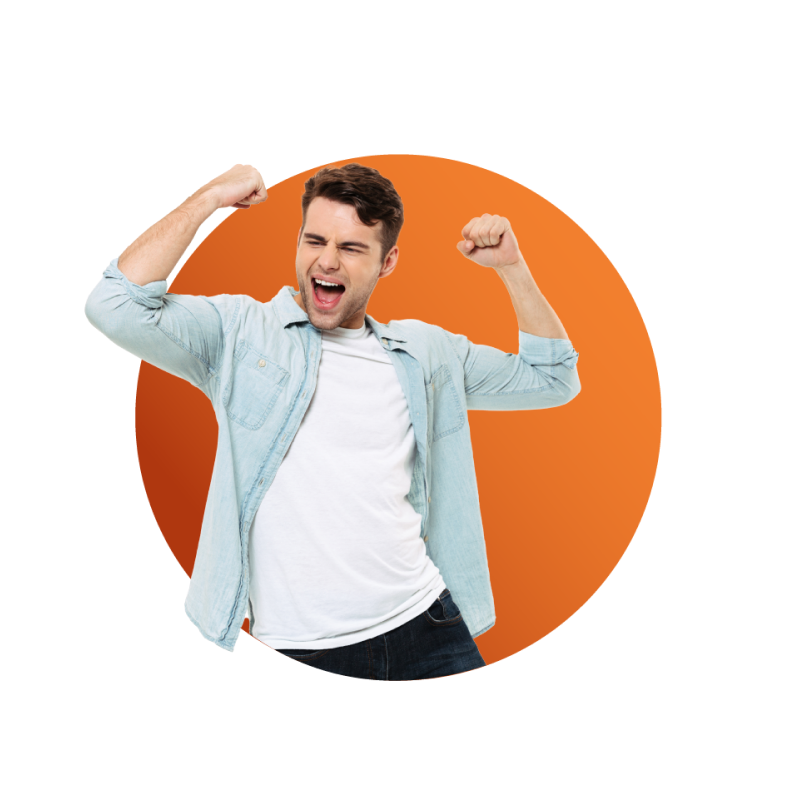
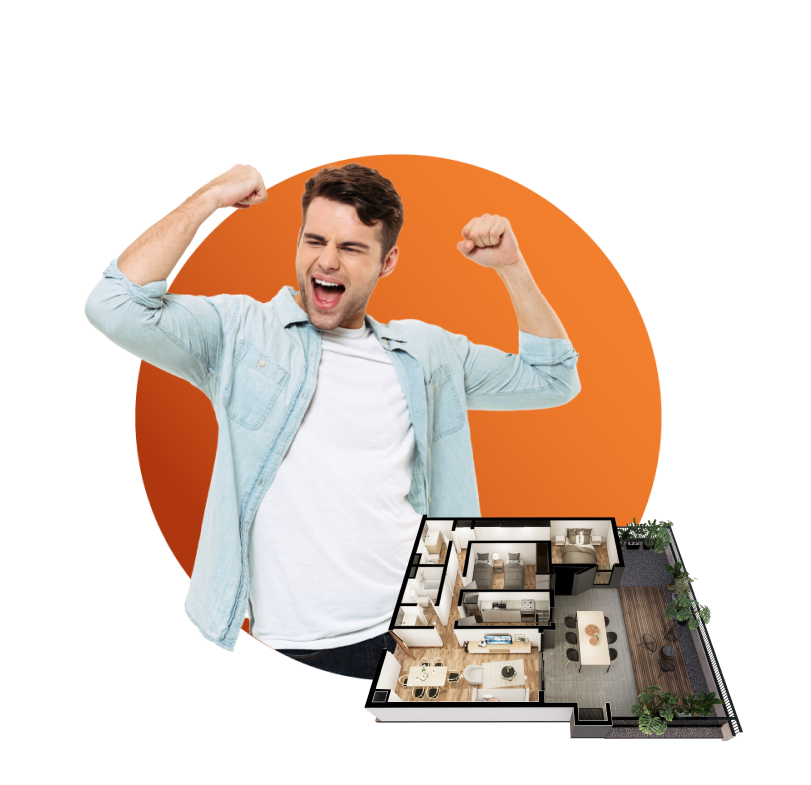
proposal-section

Changed region(s): [[0.4316, 0.642, 0.9248, 0.9478]]

diff --git a/components/ProposalSection/index.js b/components/ProposalSection/index.js
@@ -1,0 +1,48 @@
+import Image from "next/image"
+import menIMG from "../../public/men-celebrating.png"
+import womenIMG from "../../public/happy-women.png"
+import styles from "./ProposalSection.module.css"
+
+const ProposalSection = () => {
+  return (
+    <section className={styles["proposal-section"]}>
+      <div className={`${styles["img-men"]} ${styles["img-wrapper"]}`}>
+        <Image src={menIMG} alt="Nuestro legado" layout="fill" />
+      </div>
+      <div className={styles["men-text-wrapper"]}>
+        <h2 className={styles["proposal-section-title"]}>
+          Tus ahorros en m² se valorizan mejor
+        </h2>
+        <h3 className={styles["proposal-section-subtitle"]}>
+          CUMPLÍ EL SUEÑO DE <br /> TU CASA PROPIA
+        </h3>
+        <p className={styles["proposal-section-text"]}>
+          Somos un nuevo crowdfunding que te permite participar en el mercado
+          inmobiliario con pequeños montos para que puedas ir metro a metro
+          creciendo y proyectando el sueño de tu casa propia.
+        </p>
+      </div>
+      <div
+        style={{
+          display: "flex",
+          justifyContent: "space-between",
+        }}
+      >
+        <div className={styles["women-text-wrapper"]}>
+          <h3 className={styles["proposal-section-subtitle"]}>
+            POTENCIÁ TUS AHORROS INVIRTIENDO <br /> EN DESARROLLOS INMOBILIARIOS
+          </h3>
+          <p className={styles["proposal-section-text"]}>
+            En Metro a Metro te invitamos a ser parte del negocio inmobiliario
+            ingresando con un monto minimo que te permite comprar un metro
+            cuadrado cada vez que quieras, resguardando tus ahorros en ladrillo.
+          </p>
+        </div>
+        <div className={`${styles["img-wrapper"]} ${styles["img-women"]}`}>
+          <Image src={womenIMG} alt="Nuestro legado" objectFit="contain" />
+        </div>
+      </div>
+    </section>
+  )
+}
+export default ProposalSection

diff --git a/components/ProposalSection/ProposalSection.module.css b/components/ProposalSection/ProposalSection.module.css
@@ -1,0 +1,57 @@
+.proposal-section {
+  background-color: white;
+  position: relative;
+}
+
+.proposal-section-title {
+  font-weight: 700;
+  font-size: 30px;
+  line-height: 32px;
+  letter-spacing: 0.2px;
+  color: #000000;
+}
+
+.proposal-section-subtitle {
+  font-weight: 700;
+  font-size: 30px;
+  line-height: 40px;
+  letter-spacing: 0.2px;
+  color: var(--text-primary);
+  white-space: nowrap;
+}
+
+.proposal-section-text {
+  font-weight: 500;
+  font-size: 24px;
+  line-height: 40px;
+  letter-spacing: 0.2px;
+  color: #4a4a4a;
+}
+
+.men-text-wrapper {
+  padding-left: 757px;
+  padding-top: 131px;
+}
+
+.women-text-wrapper {
+  padding-left: 93px;
+  padding-top: 362px;
+  width: 50%;
+}
+
+.img-wrapper {
+  position: absolute;
+}
+
+.img-men {
+  width: 863px;
+  height: 785px;
+}
+
+.img-women {
+  width: 961px;
+  height: 873px;
+  margin-top: 181px;
+  right: 0;
+  max-width: 50%;
+}

diff --git a/pages/index.js b/pages/index.js
@@ -2,6 +2,7 @@ import Head from "next/head"
 import FirstSection from "../components/Header/FirstSection"
 import MenuComponent from "../components/Header/MenuComponent"
 import PigSection from "../components/PigSection"
+import ProposalSection from "../components/ProposalSection"
 
 export default function Home() {
   return (
@@ -14,6 +15,7 @@ export default function Home() {
         <FirstSection />
       </header>
       <PigSection />
+      <ProposalSection />
     </>
   )
 }
